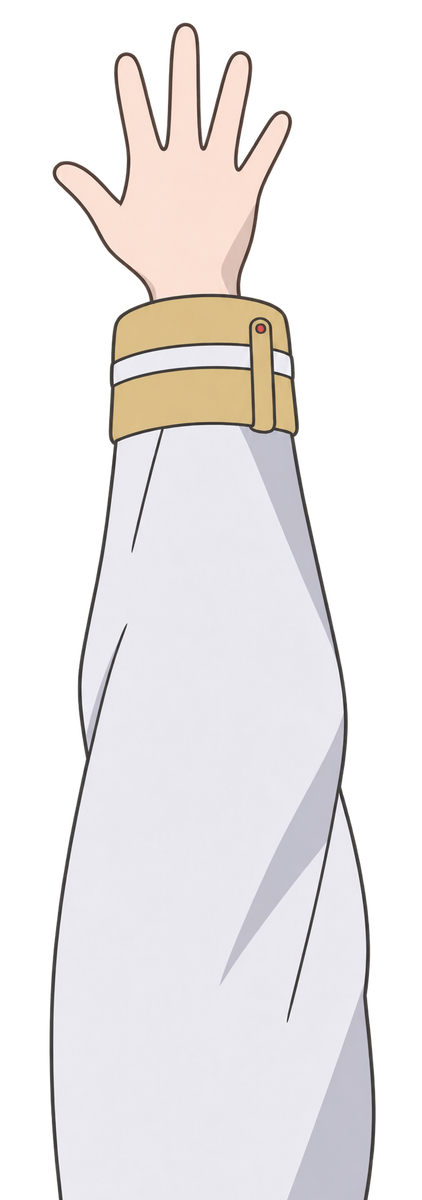
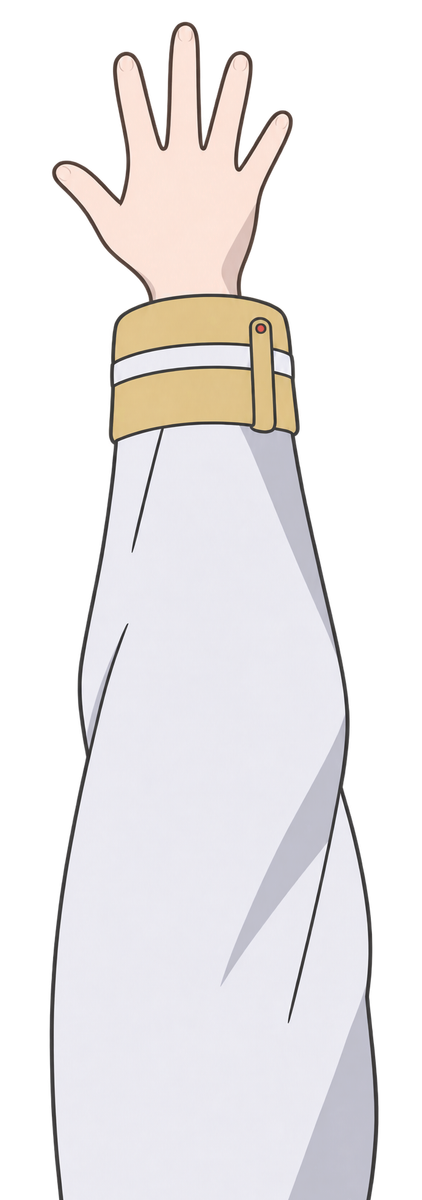
fix:补齐布手势的指甲细节

diff --git a/README.md b/README.md
@@ -7,7 +7,7 @@
 
 二代项目仍在开发中
 
-0.12.23：参考动画官方设定，制作芙莉莲的指向、石头、布、剪刀四张透明手部素材，采用白袖、金边与简洁动画画法，通过 BaseLib 原生角色接口替换多人抢遗物手势。按作者反馈重画第二版，缩小手掌、缩短手指，采用更柔和圆润的轮廓并减少指甲和关节线条。待游戏实测。
+0.12.23：参考动画官方设定，制作芙莉莲的指向、石头、布、剪刀四张透明手部素材，采用白袖、金边与简洁动画画法，通过 BaseLib 原生角色接口替换多人抢遗物手势。按作者反馈重画第二版，缩小手掌、缩短手指，采用更柔和圆润的轮廓并减少指甲和关节线条；布手势补齐与其他手势一致的小弧线指甲。待游戏实测。
 
 0.12.22：按最新事件方案接入圣雪结晶之地、龙珠冒险、收债人与营地召唤神龙，加入仙豆、套娃、龟派气功、灌铅和七龙珠收集。许愿消耗七颗龙珠、每局一次，联机由集齐者选择并获得奖励，返回后保留各自剩余营地行动。同步中英文文本，旋转工艺改为普通版本，并修正辐光事件结尾。待游戏实测。
 
